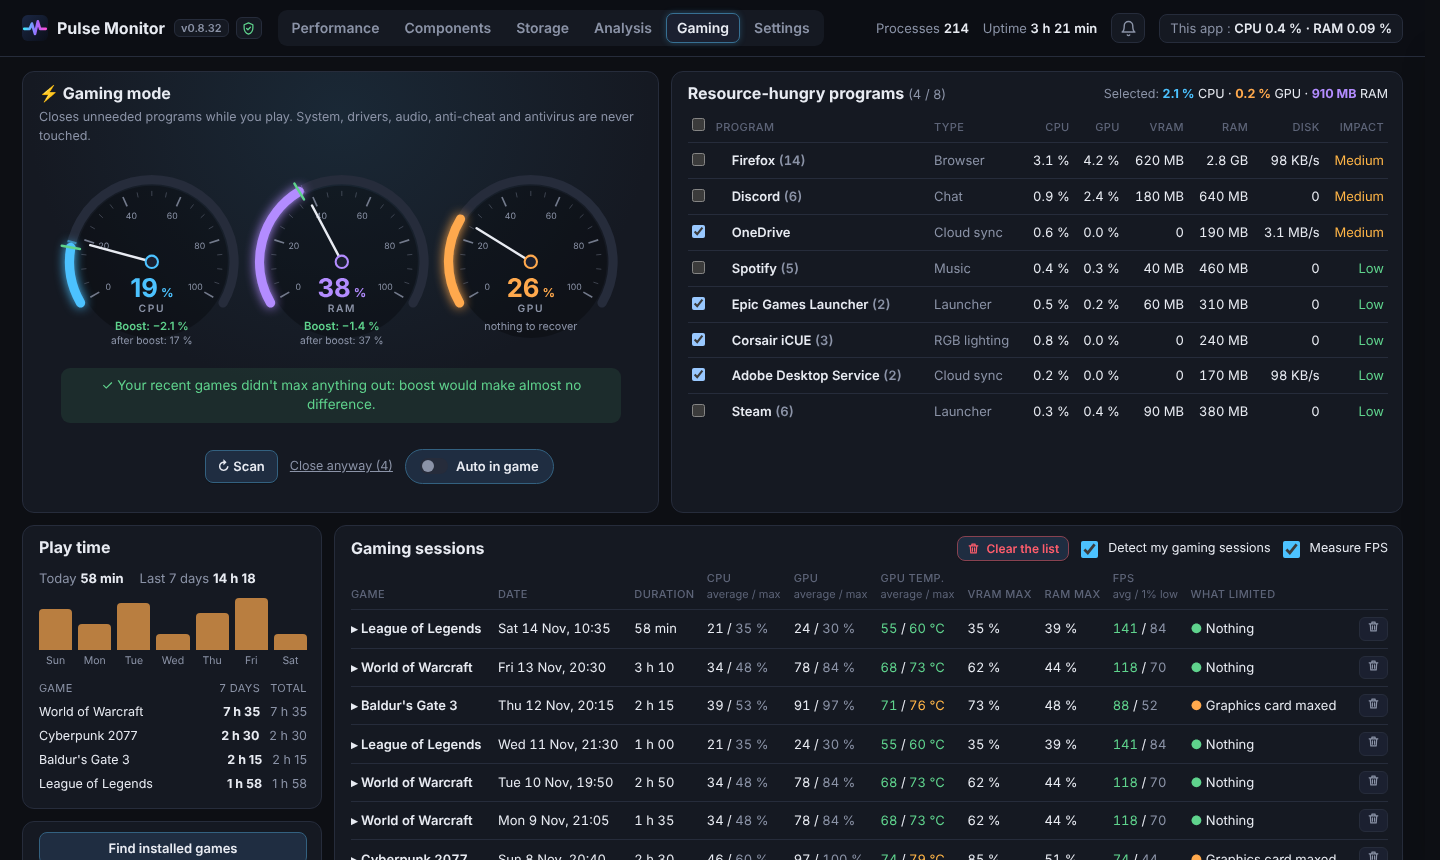
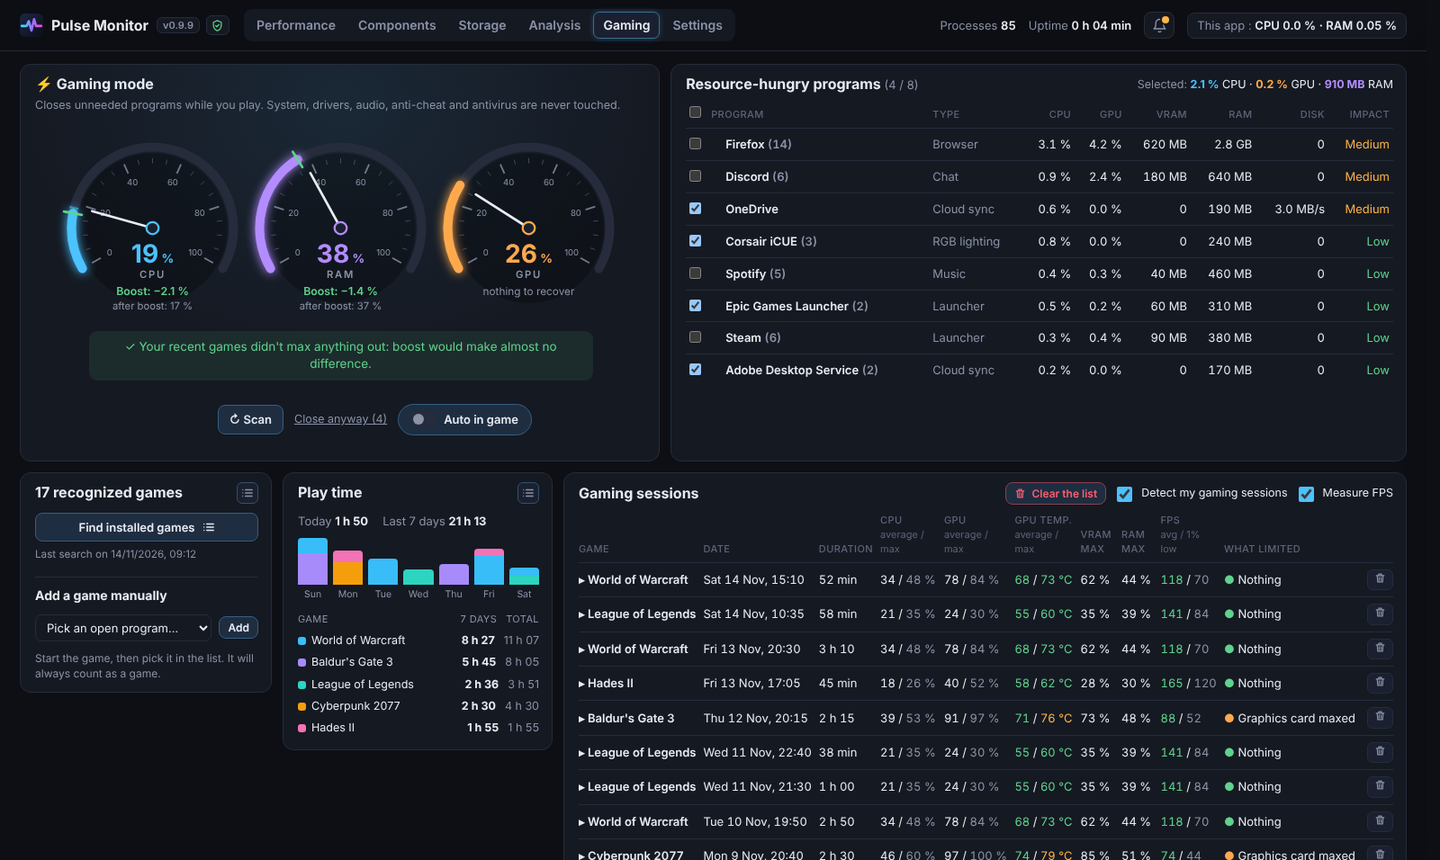
v0.9.9

diff --git a/web/index.html b/web/index.html
@@ -348,9 +348,12 @@
   .gm-charts canvas { cursor: crosshair; width: 100%; height: 64px; display: block; border-radius: 6px; background: var(--chart); border: 1px solid var(--line); box-sizing: border-box; }
   .gm-col { display: grid; gap: 12px; }
   .gm-band { display: flex; align-items: center; gap: 12px; flex-wrap: wrap; }
-  .gm-wrap { display: grid; grid-template-columns: 280px 300px minmax(0, 1fr); gap: 12px; align-items: start; }
-  @media (max-width: 1180px) { .gm-wrap { grid-template-columns: 280px minmax(0, 1fr); } .gm-wrap #an-games { grid-column: 1 / -1; } }
-  @media (max-width: 900px) { .gm-wrap { grid-template-columns: 1fr; } }
+  /* 3 colonnes (jeux, temps de jeu, sessions) ; fenêtre plus étroite : jeux et temps de jeu l'un sous l'autre,
+     pour que le tableau des sessions garde toute sa largeur */
+  .gm-wrap { display: grid; grid-template-columns: 280px 300px minmax(0, 1fr); grid-template-areas: "lib play ses"; gap: 12px; align-items: start; }
+  #gm-lib { grid-area: lib; } #gm-play { grid-area: play; } .gm-wrap #an-games { grid-area: ses; }
+  @media (max-width: 1499px) { .gm-wrap { grid-template-columns: 300px minmax(0, 1fr); grid-template-rows: auto 1fr; grid-template-areas: "lib ses" "play ses"; } }
+  @media (max-width: 900px) { .gm-wrap { grid-template-columns: 1fr; grid-template-rows: none; grid-template-areas: "lib" "play" "ses"; } }
   /* en-tête de carte qui ouvre le panneau (comme les cartes Performances) : toute la largeur est cliquable,
      au survol le titre est souligné et le bouton s'éclaire */
   .h-pair { cursor: pointer; }

diff --git a/pulse_monitor.py b/pulse_monitor.py
@@ -24,7 +24,7 @@ from http.server import BaseHTTPRequestHandler, ThreadingHTTPServer
 import psutil
 
 APP_NAME = "Pulse Monitor"
-APP_VERSION = "0.9.8"
+APP_VERSION = "0.9.9"
 IS_WIN = os.name == "nt"
 FROZEN = bool(getattr(sys, "frozen", False))      # version .exe (PyInstaller)
 # données (réglages, historique…) : à côté du .exe ou du script ; fichiers de l'appli (page, icônes) : dans le paquet

diff --git a/README.fr.md b/README.fr.md
@@ -6,7 +6,7 @@
 
 Tableau de bord simple et léger pour Windows : performances du PC en temps réel (façon Gestionnaire des tâches), fiche des composants utile pour changer des pièces, analyse du stockage, santé des disques et rapports de sessions de jeu. 100 % local, aucune télémétrie.
 
-Version actuelle : **v0.9.8**
+Version actuelle : **v0.9.9**
 
 ## Télécharger
 
@@ -59,16 +59,16 @@ Dans les [Releases](https://github.com/leclodo/Pulse-Monitor/releases/latest) :
 
 **Gaming**
 - **Mode gaming** : ferme les programmes inutiles pendant que tu joues (synchro cloud, launchers, messageries, navigateurs…) et indique la RAM, le CPU, le disque et le GPU libérés. L'impact de chaque programme est calculé selon la puissance du PC. Scan, verdict clair (le boost n'est proposé que s'il sert vraiment), liste à vérifier (impact de chaque programme), optimisation ; mode automatique en option quand un jeu est détecté. Le système, les pilotes, l'audio, les anti-triche et les antivirus ne sont jamais touchés. « Restaurer » relance tout ensuite
-- Temps de jeu par jour, par semaine et par jeu (une couleur par jeu, grand graphique sur 7 / 30 / 90 jours) ; signal ⚠ de température dans le widget quand la carte graphique chauffe en jeu
+- Temps de jeu par jour, par semaine et par jeu : une couleur par jeu, survol d'un jour pour voir le temps par jeu, grand graphique sur 7 / 30 / 90 jours dans le panneau latéral. Supprimer une session retire aussi son temps de jeu ; signal ⚠ de température dans le widget quand la carte graphique chauffe en jeu
 - Jeu reconnu en 10 à 30 s (Steam, Epic, GOG, Battle.net, Riot… ou plein écran avec la carte graphique chargée)
 - Rapport de chaque session : durée, CPU / GPU (moyenne / max), température du GPU, VRAM / RAM, **FPS (moyenne / 1 % low)**, ce qui limitait, et graphiques (survol = valeurs, clic = les programmes les plus gourmands)
 - FPS lus dans les événements d'affichage de Windows, sans programme ajouté (autorisation unique si besoin : groupe « Utilisateurs du journal de performances »)
-- Recherche des jeux installés, ajout manuel de n'importe quel programme, pause / reprise du suivi
+- Recherche des jeux installés (la liste s'ouvre dans le panneau latéral), ajout manuel de n'importe quel programme, pause / reprise du suivi, ou **arrêt du suivi** d'un programme qui n'est pas un jeu (annulable dans « Jamais suivis »)
 
 ## Utilisation
 
 - **Cloche 🔔** : conseils en direct (composant saturé, programme en cause, programmes au démarrage…). ✕ pour masquer un conseil.
-- **Clic sur le titre d'une carte** (Performances) : liste des programmes qui utilisent la ressource. **Ctrl + clic** : masquer la carte (à réafficher dans Paramètres).
+- **Clic sur le titre d'une carte** ou sur son icône ☰ : ouvre le panneau latéral (programmes qui utilisent la ressource dans Performances, liste des jeux ou grand graphique du temps de jeu dans Gaming). **Ctrl + clic** : masquer la carte (à réafficher dans Paramètres).
 - Boutons **Cartes : Repliées / Petites / Grandes** en haut de Performances ; poignée **⋮⋮** pour réorganiser par glisser-déposer.
 - **Paramètres** : langue FR / EN (celle de Windows par défaut), 5 thèmes, mode économie, lancement avec Windows, garder en fond à la fermeture, vérification quotidienne des mises à jour.
 - **Fermer la fenêtre (✕)** : l'appli reste près de l'horloge avec une petite icône (~30 Mo). Clic = rouvrir, clic droit = Quitter.
@@ -82,7 +82,7 @@ Tout reste sur ton PC : pas de compte, pas de publicité, pas de télémétrie, 
 
 ## Léger
 
-La fenêtre se ferme complètement quand on la quitte, les mesures ralentissent quand elle est réduite ou sur un autre onglet que Performances, et WebView2 tourne en mode allégé (un seul processus d'affichage, sans accélération GPU). Un **mode économie** (Paramètres) ralentit encore tout : mesures toutes les 3 s, widget toutes les 3 s, sans animations.
+La fenêtre se ferme complètement quand on la quitte, les mesures ralentissent quand elle est réduite ou sur un autre onglet que Performances, et WebView2 tourne en mode allégé (un seul processus d'affichage, sans accélération GPU). Un **mode économie** (Paramètres) ralentit encore tout : mesures toutes les 3 s, widget toutes les 3 s, analyse en arrière-plan toutes les 5 s, sans animations. Les analyses du stockage sont libérées de la mémoire après quelques minutes.
 
 ## Depuis le code source
 

diff --git a/README.md b/README.md
@@ -6,7 +6,7 @@
 
 A simple, lightweight dashboard for Windows: real-time PC performance (like Task Manager), a hardware sheet with what you need to know when upgrading parts, storage analysis, disk health and gaming session reports. 100% local, no telemetry.
 
-Current version: **v0.9.8**
+Current version: **v0.9.9**
 
 ## Download
 
@@ -59,16 +59,16 @@ From the [Releases](https://github.com/leclodo/Pulse-Monitor/releases/latest) pa
 
 **Gaming**
 - **Gaming mode**: closes unneeded programs while you play (cloud sync, launchers, chat, browsers…) and shows the RAM, CPU, disk and GPU it frees. Each program's impact is relative to your PC's hardware. Scan, a clear verdict (boost is only offered when it really helps), review the list (impact of each program), optimize; optional automatic mode when a game is detected. System, drivers, audio, anti-cheat and antivirus are never touched. "Restore" restarts everything afterwards
-- Play time per day, per week and per game (one color per game, large 7 / 30 / 90-day chart); a ⚠ temperature warning in the desktop widget when the graphics card runs hot during a game
+- Play time per day, per week and per game: one color per game, hover a day to see the time per game, large 7 / 30 / 90-day chart in the side panel. Deleting a session also removes its play time; a ⚠ temperature warning in the desktop widget when the graphics card runs hot during a game
 - Games recognized within 10 to 30 s (Steam, Epic, GOG, Battle.net, Riot… or full screen with the graphics card under load)
 - Report for each session: duration, CPU / GPU (average / max), GPU temperature, VRAM / RAM, **FPS (average / 1% low)**, what limited, and charts (hover for values, click for the most demanding programs)
 - FPS read from Windows display events, no extra program (one-time permission if needed: "Performance Log Users" group)
-- Find installed games, add any program manually, pause / resume tracking
+- Find installed games (the list opens in the side panel), add any program manually, pause / resume tracking, or **stop tracking** a program that isn't a game (undo from "Never tracked")
 
 ## Usage
 
 - **Bell 🔔**: live tips (saturated component, program responsible, startup programs…). ✕ to dismiss a tip.
-- **Click a card title** (Performance): programs using that resource. **Ctrl + click**: hide the card (restore it in Settings).
+- **Click a card title** or its ☰ icon: opens the side panel (programs using that resource in Performance, game list or large play time chart in Gaming). **Ctrl + click**: hide the card (restore it in Settings).
 - **Cards: Collapsed / Small / Large** buttons at the top of Performance; **⋮⋮** handle to reorder by drag and drop.
 - **Settings**: FR / EN language (Windows language by default), 5 themes, eco mode, start with Windows, keep in tray when closed, daily update check.
 - **Close the window (✕)**: the app stays near the clock with a small icon (~30 MB). Click = reopen, right-click = Quit.
@@ -82,7 +82,7 @@ Everything stays on your PC: no account, no ads, no telemetry, nothing is sold o
 
 ## Lightweight
 
-The window is fully closed when you close it, measurements slow down when it's minimized or on a tab other than Performance, and WebView2 runs in lean mode (single render process, no GPU acceleration). An **Eco mode** (Settings) slows everything down further: measurements every 3 s, widget every 3 s, no animations.
+The window is fully closed when you close it, measurements slow down when it's minimized or on a tab other than Performance, and WebView2 runs in lean mode (single render process, no GPU acceleration). An **Eco mode** (Settings) slows everything down further: measurements every 3 s, widget every 3 s, background analysis every 5 s, no animations. Storage scans are freed from memory after a few minutes.
 
 ## From source
 
